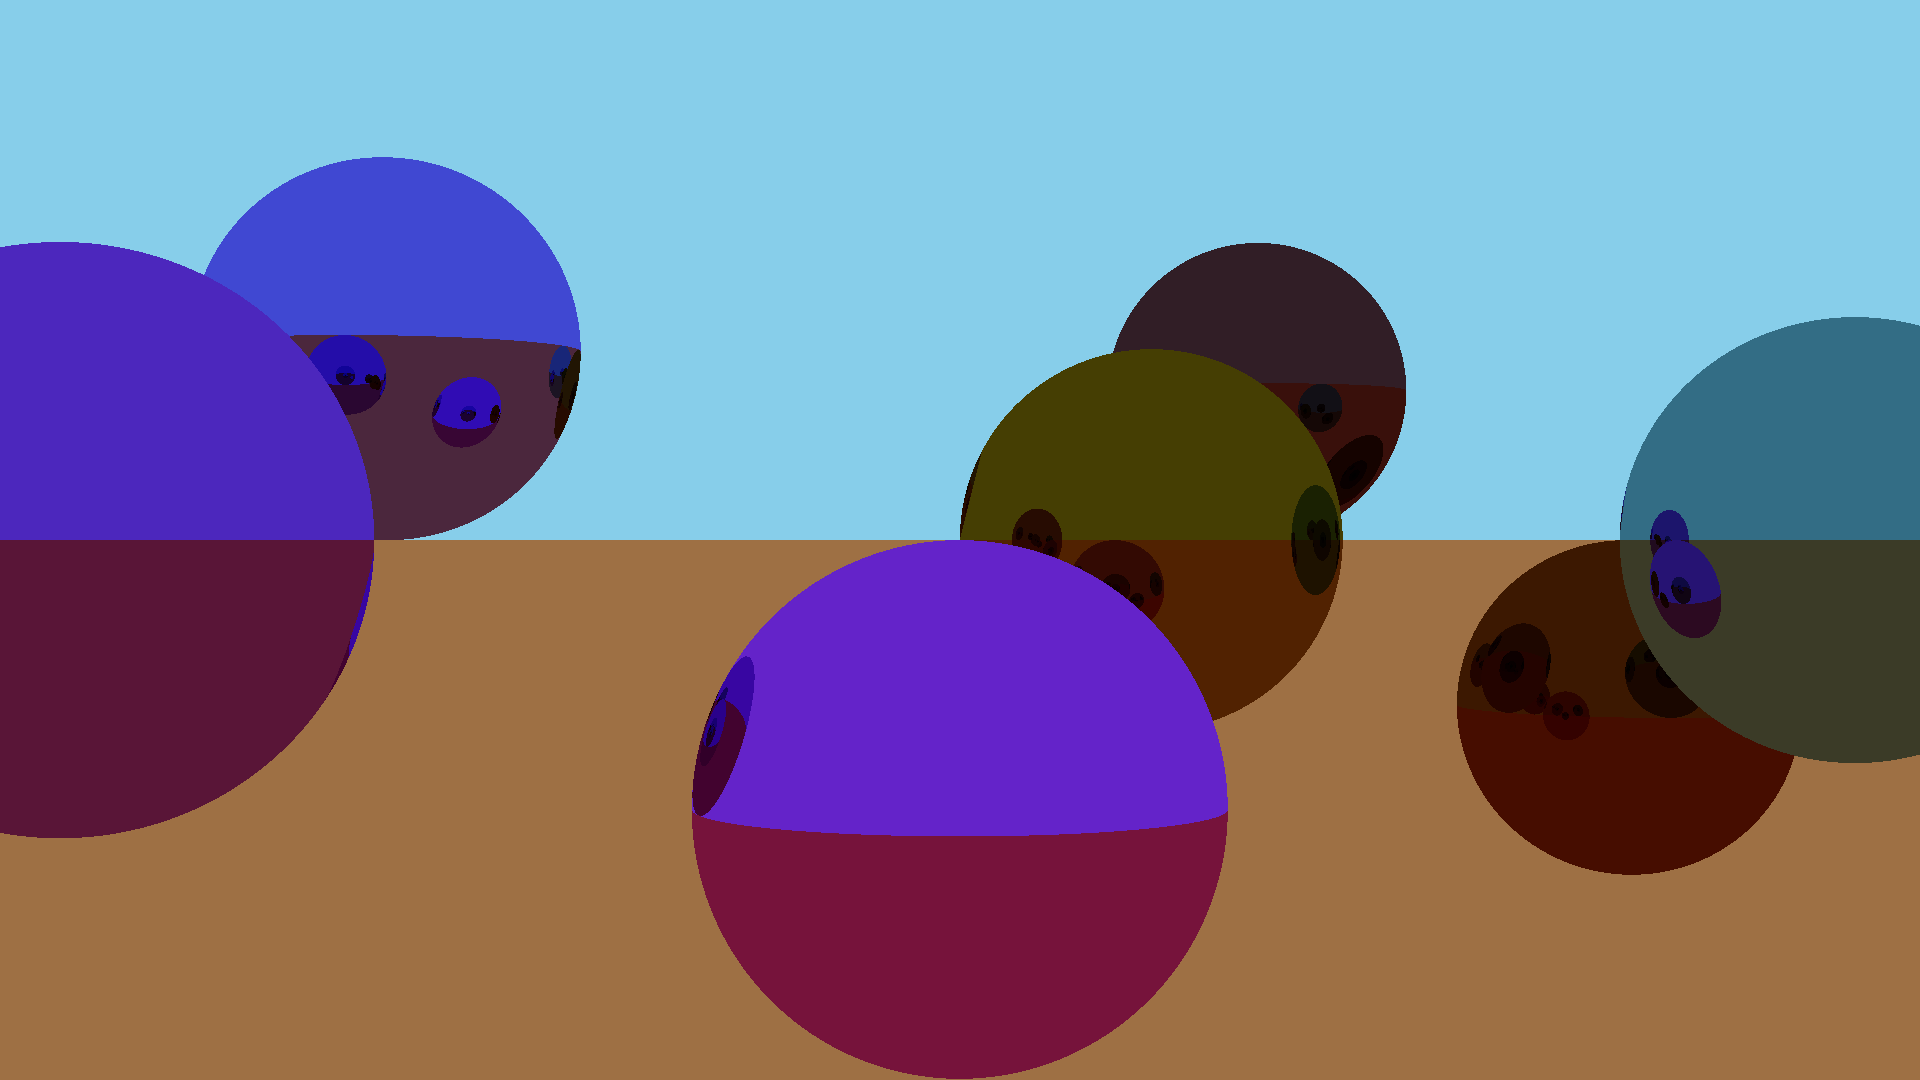
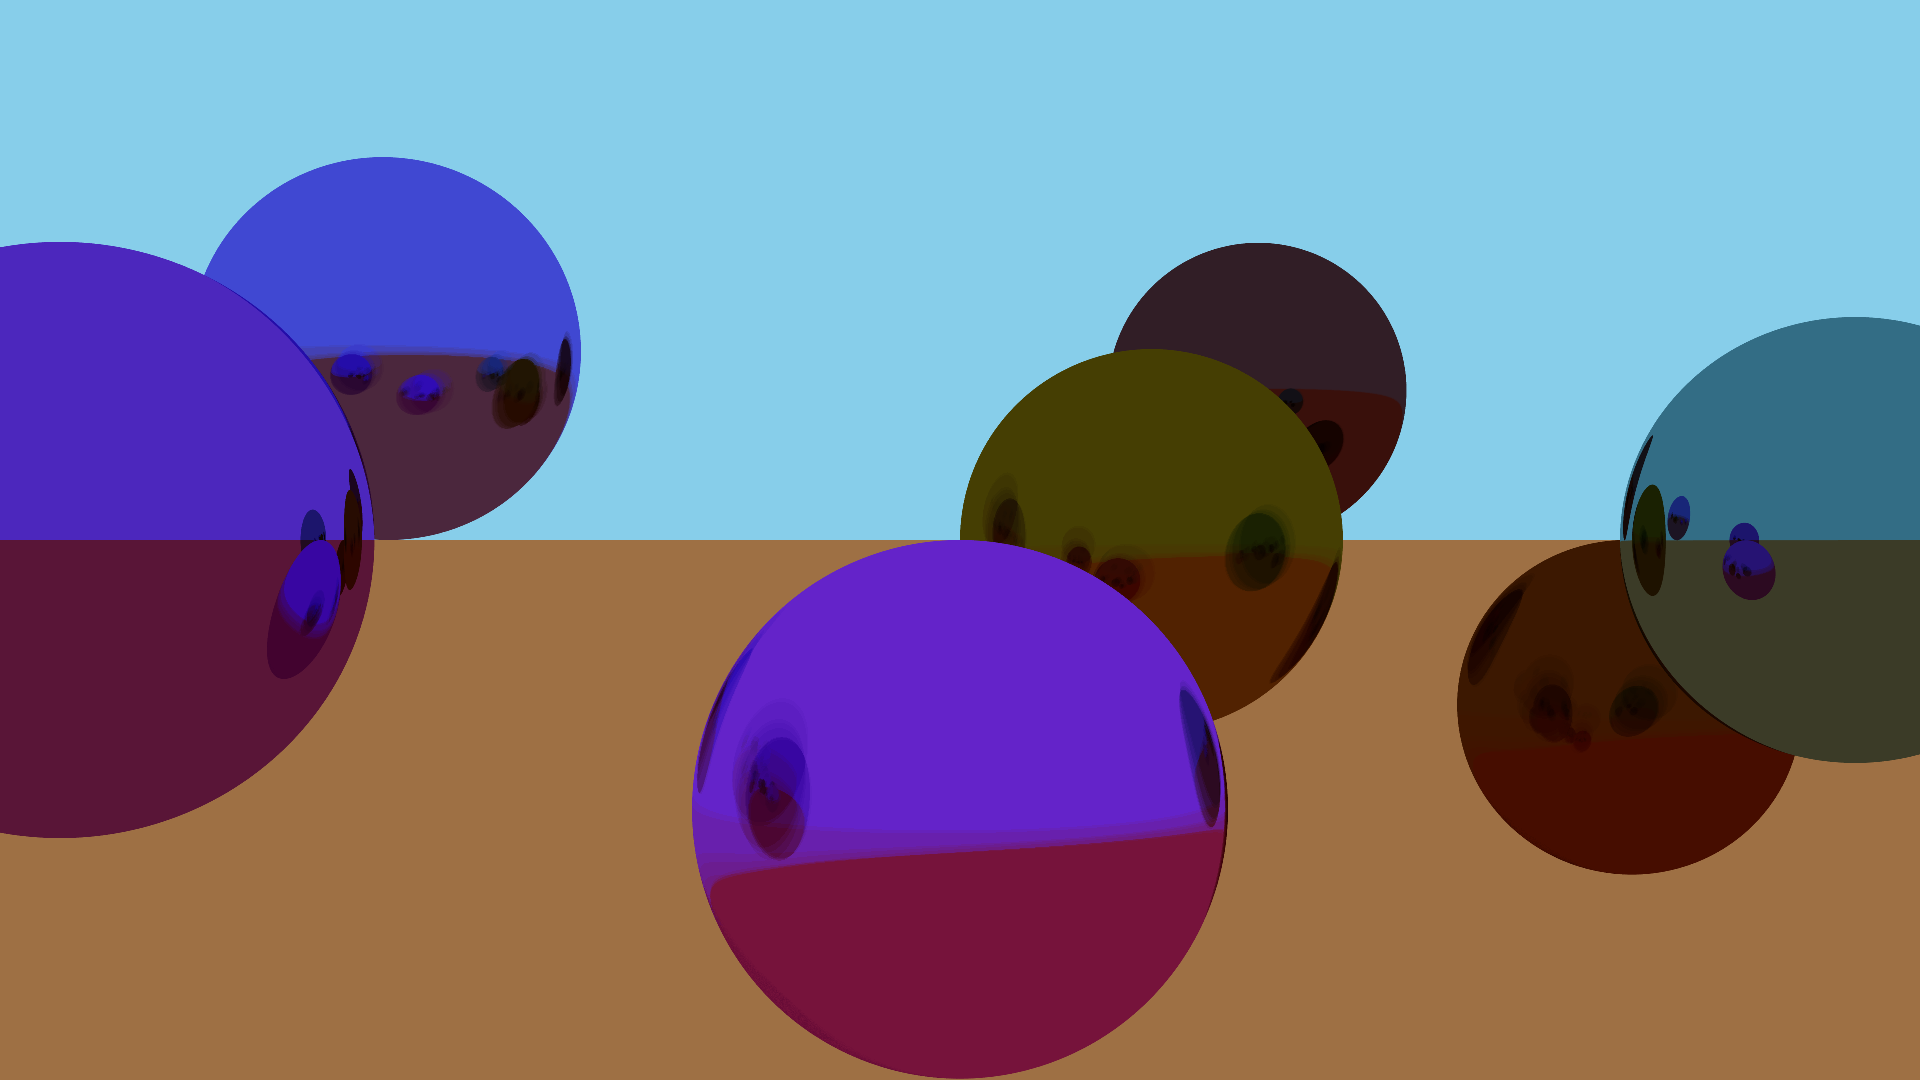
Adding some timers and making the sphere intersector faster

diff --git a/RayTracerLib/GPURenderer.cpp b/RayTracerLib/GPURenderer.cpp
@@ -58,7 +58,7 @@ static void ParseSceneData(const IScene &scene, std::vector<GPUSphere> &out_gpu_
 			}
 			else
 			{
-				material_index = diffuse_materials.size();
+				material_index = static_cast<MaterialIndex>(diffuse_materials.size());
 				GPUDiffuseMaterialParameters new_parameters(diffuse);
 				GPUDiffuseMaterialParameterTracking new_material_tracker
 				{
@@ -279,31 +279,11 @@ vk::Result GPURenderer::CreateAndMapMemories(uint32_t queueFamilyIndex)
 	return result;
 }
 
-static bool RayCalculationNeeded(const GPURay * const rays, size_t rays_length, size_t current_bounce, size_t max_bounce)
-{
-	if (current_bounce >= max_bounce)
-	{
-		return false;
-	}
-
-	for (size_t i = 0; i < rays_length; i++)
-	{
-		if (rays[i].direction[0] != 0 ||
-			rays[i].direction[1] != 0 ||
-			rays[i].direction[2] != 0)
-		{
-			return true;
-		}
-	}
-
-	return false;
-}
-
 void GPURenderer::Render(std::shared_ptr<IImage> &out_image)
 {
 	ElapsedTimer performance_timer;
 
-	std::cout << "[RENDER STARTED]" << ": line " << __LINE__ << ": time (ms): " << performance_timer.Poll().count() << "\n";
+	std::cout << "[RENDER STARTED]: line " << __LINE__ << ": time (ms): " << performance_timer.Poll().count() << "\n";
 
 	GPURayInitializer ray_initializer(device);
 	GPURayIntersector ray_intersector(device, scene);
@@ -312,11 +292,14 @@ void GPURenderer::Render(std::shared_ptr<IImage> &out_image)
 
 	const size_t max_bounces = 12;
 
+	ElapsedTimer rendering_timer;
 	for (size_t i = 0; i < samples; i++)
 	{
 		std::cout << "############## CALCULATING SAMPLE " << i + 1 << " OF " << samples << " ##############\n";
 
 		ray_initializer.Execute(ComputeQueueIndex, camera, i, BufferData[(int)GPUBufferBindings::ray_buffer].buffer, BufferData[(int)GPUBufferBindings::intersection_buffer].buffer);
+
+		std::cout << "\t[Ray Initialization] time (ms): " << rendering_timer.Poll().count() << "\n";
 
 #if defined _DEBUG && false
 		std::cout << "---- initialized ray values for ray initialization buffer " << i << " ----" << "\n";
@@ -329,14 +312,16 @@ void GPURenderer::Render(std::shared_ptr<IImage> &out_image)
 #endif
 
 		bool ray_calculation_needed = true;
-		size_t current_bounce = 1;
+		size_t current_bounce_index = 0;
 
-		while (ray_calculation_needed)
+		while (current_bounce_index < max_bounces)
 		{
 			ray_intersector.Execute(ComputeQueueIndex, RayBufferSize,
 				BufferData[(int)GPUBufferBindings::ray_buffer].buffer,
 				BufferData[(int)GPUBufferBindings::intersection_buffer].buffer,
 				BufferData[(int)GPUBufferBindings::sphere_buffer].buffer);
+
+			std::cout << "\t[Ray Intersection] time (ms): " << rendering_timer.Poll().count() << "\n";
 
 	#if defined _DEBUG && false
 			std::cout << "---- Calculated intersections for ray buffer " << i << " ----" << "\n";
@@ -353,18 +338,20 @@ void GPURenderer::Render(std::shared_ptr<IImage> &out_image)
 				BufferData[(int)GPUBufferBindings::ray_buffer].buffer,
 				BufferData[(int)GPUBufferBindings::diffuse_material_parameters].buffer);
 
+			std::cout << "\t[Material Calculation] time (ms): " << rendering_timer.Poll().count() << "\n";
+
 	#if defined _DEBUG && false
 			std::cout << "---- Calculated materials for ray buffer " << i << " ----" << "\n";
 	#endif
 
-			ray_calculation_needed = RayCalculationNeeded((const GPURay * const)gpu_ray_buffer, RayBufferSize, current_bounce, max_bounces);
-
-			current_bounce++;
+			current_bounce_index++;
 		}
 
 		sample_accumulator.Execute(ComputeQueueIndex, RayBufferSize,
 			BufferData[(int)GPUBufferBindings::intersection_buffer].buffer,
 			BufferData[(int)GPUBufferBindings::sample_buffer].buffer);
+
+		std::cout << "\t[Sample Accumulation] time (ms): " << rendering_timer.Poll().count() << "\n";
 
 #if defined _DEBUG && false
 		std::cout << "---- Accumulated samples for ray buffer " << i << " ----" << "\n";
@@ -379,6 +366,10 @@ void GPURenderer::Render(std::shared_ptr<IImage> &out_image)
 		BufferData[(int)GPUBufferBindings::intersection_buffer].buffer,
 		BufferData[(int)GPUBufferBindings::sample_buffer].buffer,
 		true, samples);
+
+	std::cout << "\t[Sample Finalization] time (ms): " << rendering_timer.Poll().count() << "\n";
+
+	std::cout << "[RENDER TIME]" << ": line " << __LINE__ << ": time (ms): " << performance_timer.Poll().count() << "\n";
 
 	Image *output_image = new Image(camera.Resolution());
 
@@ -395,7 +386,7 @@ void GPURenderer::Render(std::shared_ptr<IImage> &out_image)
 
 	out_image = std::shared_ptr<IImage>(output_image);
 
-	std::cout << "[RENDER TIME]" << ": line " << __LINE__ << ": time (ms): " << performance_timer.Poll().count() << "\n";
+	std::cout << "[IMAGE CREATION TIME]" << ": line " << __LINE__ << ": time (ms): " << performance_timer.Poll().count() << "\n";
 }
 
 GPURenderer::~GPURenderer()

diff --git a/RayTracerLib/GPUMaterialCalculator.cpp b/RayTracerLib/GPUMaterialCalculator.cpp
@@ -1,6 +1,8 @@
 #include "GPUMaterialCalculator.h"
+#include "ElapsedTimer.h"
 
 using RayTracer::GPUMaterialCalculator;
+using RayTracer::ElapsedTimer;
 
 #pragma region Material Calculator
 
@@ -18,8 +20,15 @@ void GPUMaterialCalculator::Execute(uint32_t compute_queue_index,
 	vk::Buffer output_gpu_ray_buffer,
 	vk::Buffer input_diffuse_material_parameters)
 {
+	ElapsedTimer timer;
+
 	world_material.Execute(compute_queue_index, incoming_ray_count, input_gpu_intersection_buffer, output_gpu_ray_buffer);
+
+	std::cout << "\t\t[World Material] time (ms): " << timer.Poll().count() << "\n";
+
 	diffuse_material.Execute(compute_queue_index, incoming_ray_count, input_gpu_intersection_buffer, output_gpu_ray_buffer, input_diffuse_material_parameters);
+
+	std::cout << "\t\t[Diffuse Material] time (ms): " << timer.Poll().count() << "\n";
 }
 
 #pragma endregion
@@ -55,6 +64,8 @@ GPUMaterialCalculator::GPUDiffuseMaterial::GPUDiffuseMaterial(vk::Device device)
 void GPUMaterialCalculator::GPUDiffuseMaterial::Execute(uint32_t compute_queue_index, size_t incoming_ray_count,
 	vk::Buffer input_gpu_intersection_buffer, vk::Buffer output_gpu_ray_buffer, vk::Buffer input_gpu_material_parameters)
 {
+	DiffuseMaterialPushConstants.random_seed = static_cast<float>(rand()) / static_cast<float>(RAND_MAX);
+
 	GPUComputeShader::Execute(compute_queue_index, incoming_ray_count, std::vector<vk::Buffer>{input_gpu_intersection_buffer, output_gpu_ray_buffer, input_gpu_material_parameters}, static_cast<void *>(&DiffuseMaterialPushConstants));
 }
 

diff --git a/RayTracerLib/GPURayIntersector.cpp b/RayTracerLib/GPURayIntersector.cpp
@@ -1,11 +1,13 @@
 #include "GPURayIntersector.h"
 #include "VulkanUtils.h"
+#include "ElapsedTimer.h"
 
 using RayTracer::GPURayIntersector;
 using RayTracer::GPURay;
 using RayTracer::IScene;
 using RayTracer::Sphere;
 using RayTracer::VKUtils;
+using RayTracer::ElapsedTimer;
 
 const static size_t shader_local_size_x = 1024;
 
@@ -30,8 +32,16 @@ void GPURayIntersector::Execute(uint32_t compute_queue_index,
 
 	// The world intersector should be first since everything will intersect with it and
 	// it just sets up the max depth and starting color information in each intersection
+
+	ElapsedTimer timer;
+
 	world_intersector.Execute(compute_queue_index, incoming_ray_count, input_gpu_ray_buffer, output_gpu_intersection_buffer);
+
+	std::cout << "\t\t[World Intersection] time (ms): " << timer.Poll().count() << "\n";
+
 	sphere_intersector.Execute(compute_queue_index, incoming_ray_count, input_gpu_ray_buffer, output_gpu_intersection_buffer, input_gpu_sphere_buffer);
+
+	std::cout << "\t\t[Sphere Intersection] time (ms): " << timer.Poll().count() << "\n";
 }
 
 #pragma endregion

diff --git a/include/GPUMaterialCalculator.h b/include/GPUMaterialCalculator.h
@@ -57,9 +57,11 @@ namespace RayTracer
 				push_constants()
 				{
 					material_id = static_cast<uint32_t>(GPURenderer::MaterialTypeID::diffuse);
+					random_seed = static_cast<float>(rand()) / static_cast<float>(RAND_MAX);
 				}
 
 				uint32_t material_id;
+				float random_seed;
 			} DiffuseMaterialPushConstants;
 		};
 
